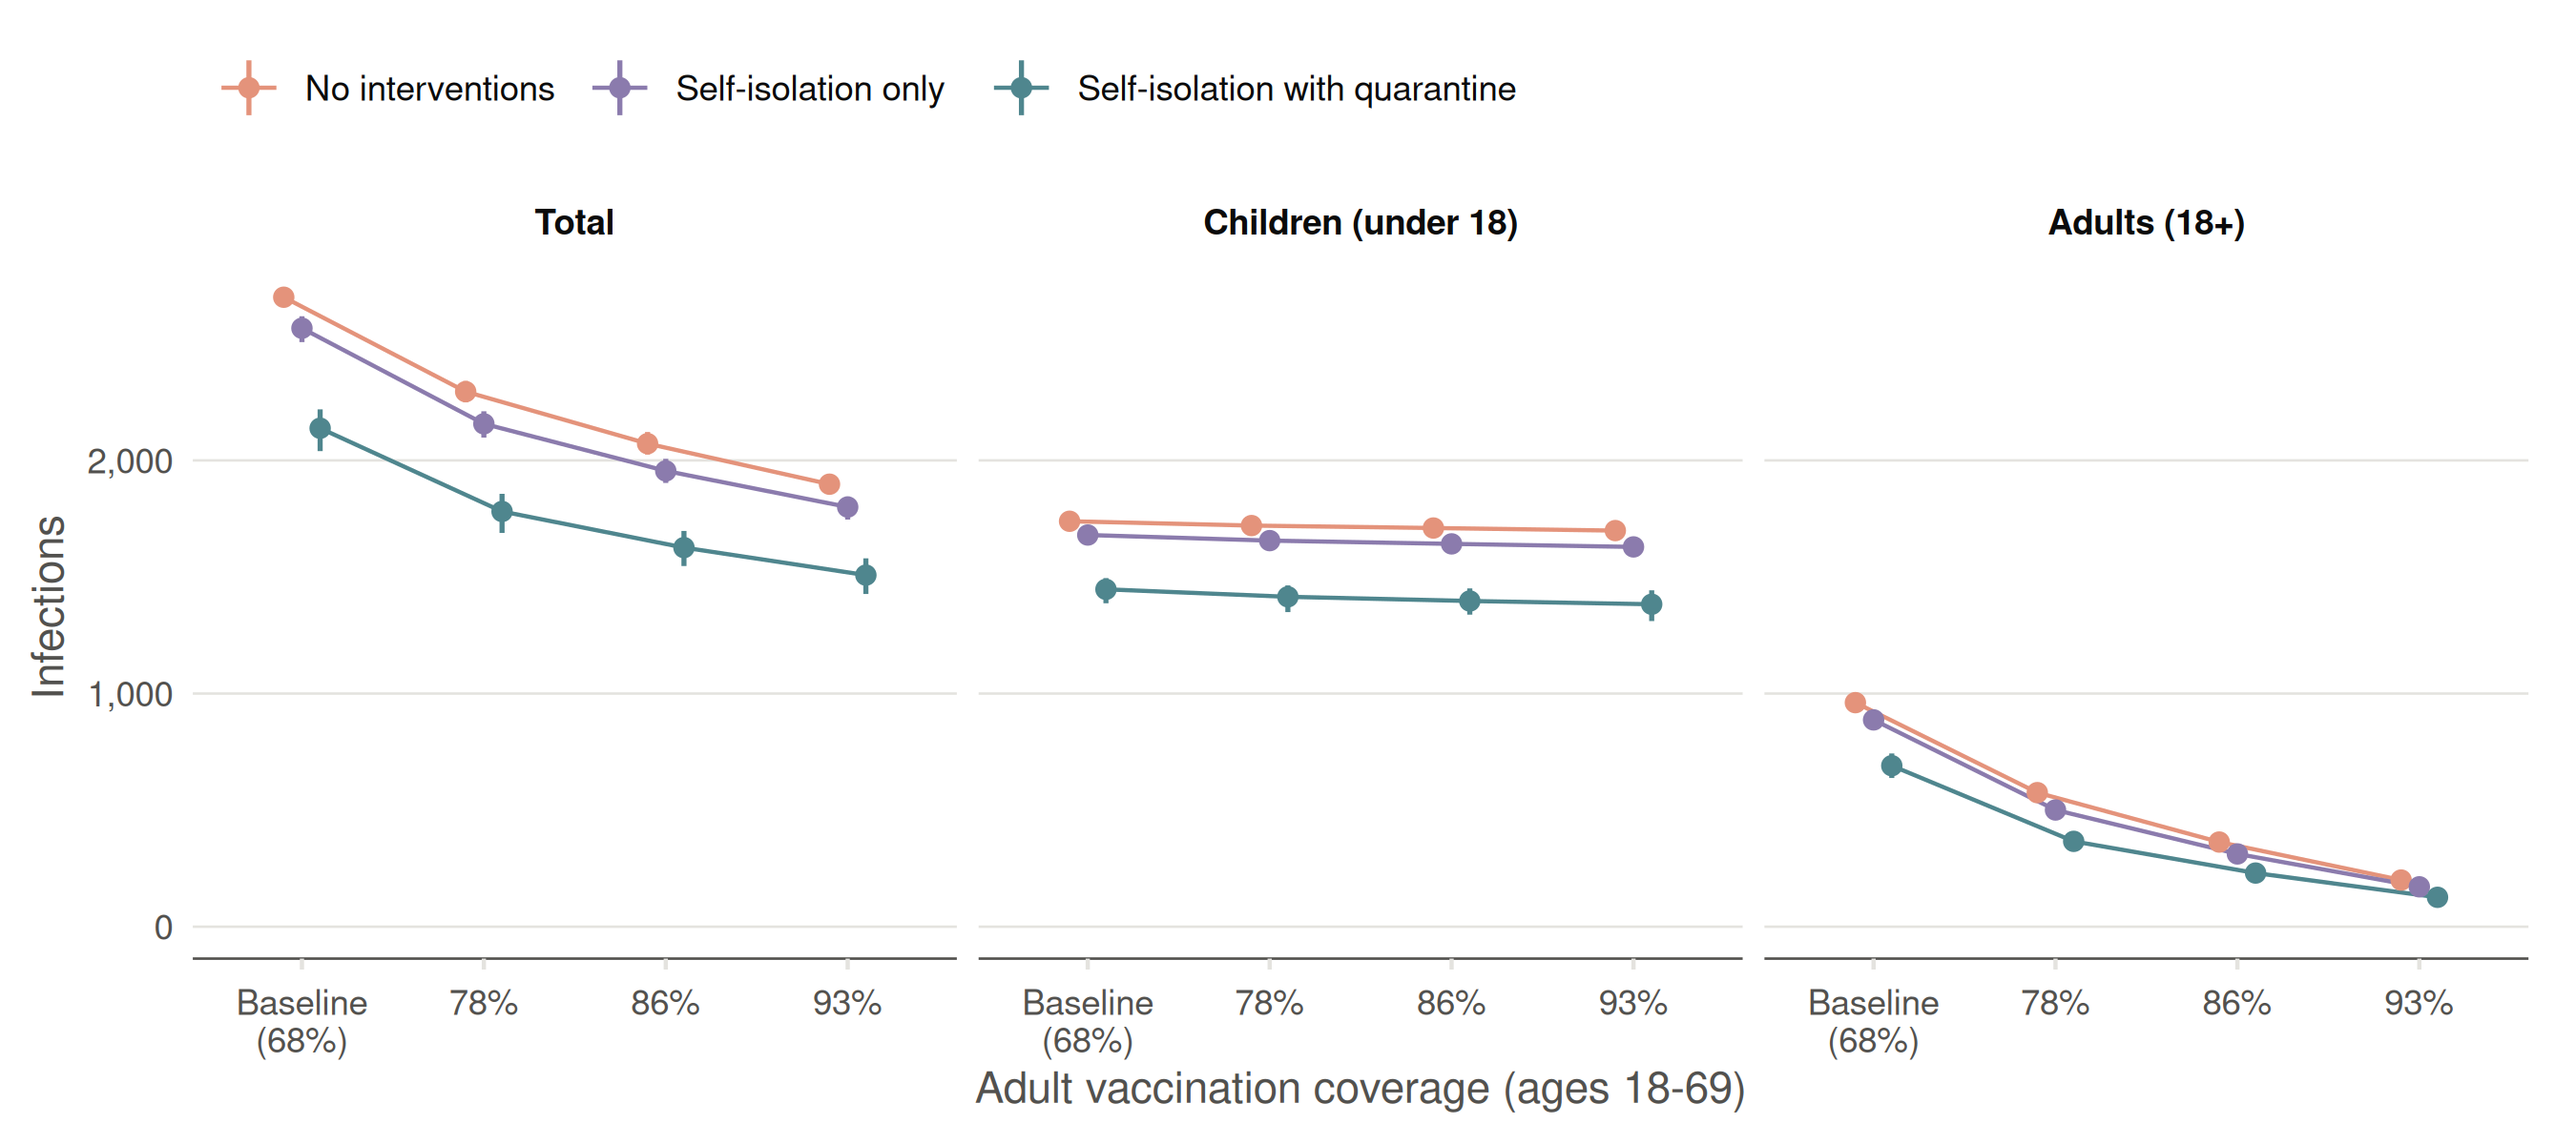
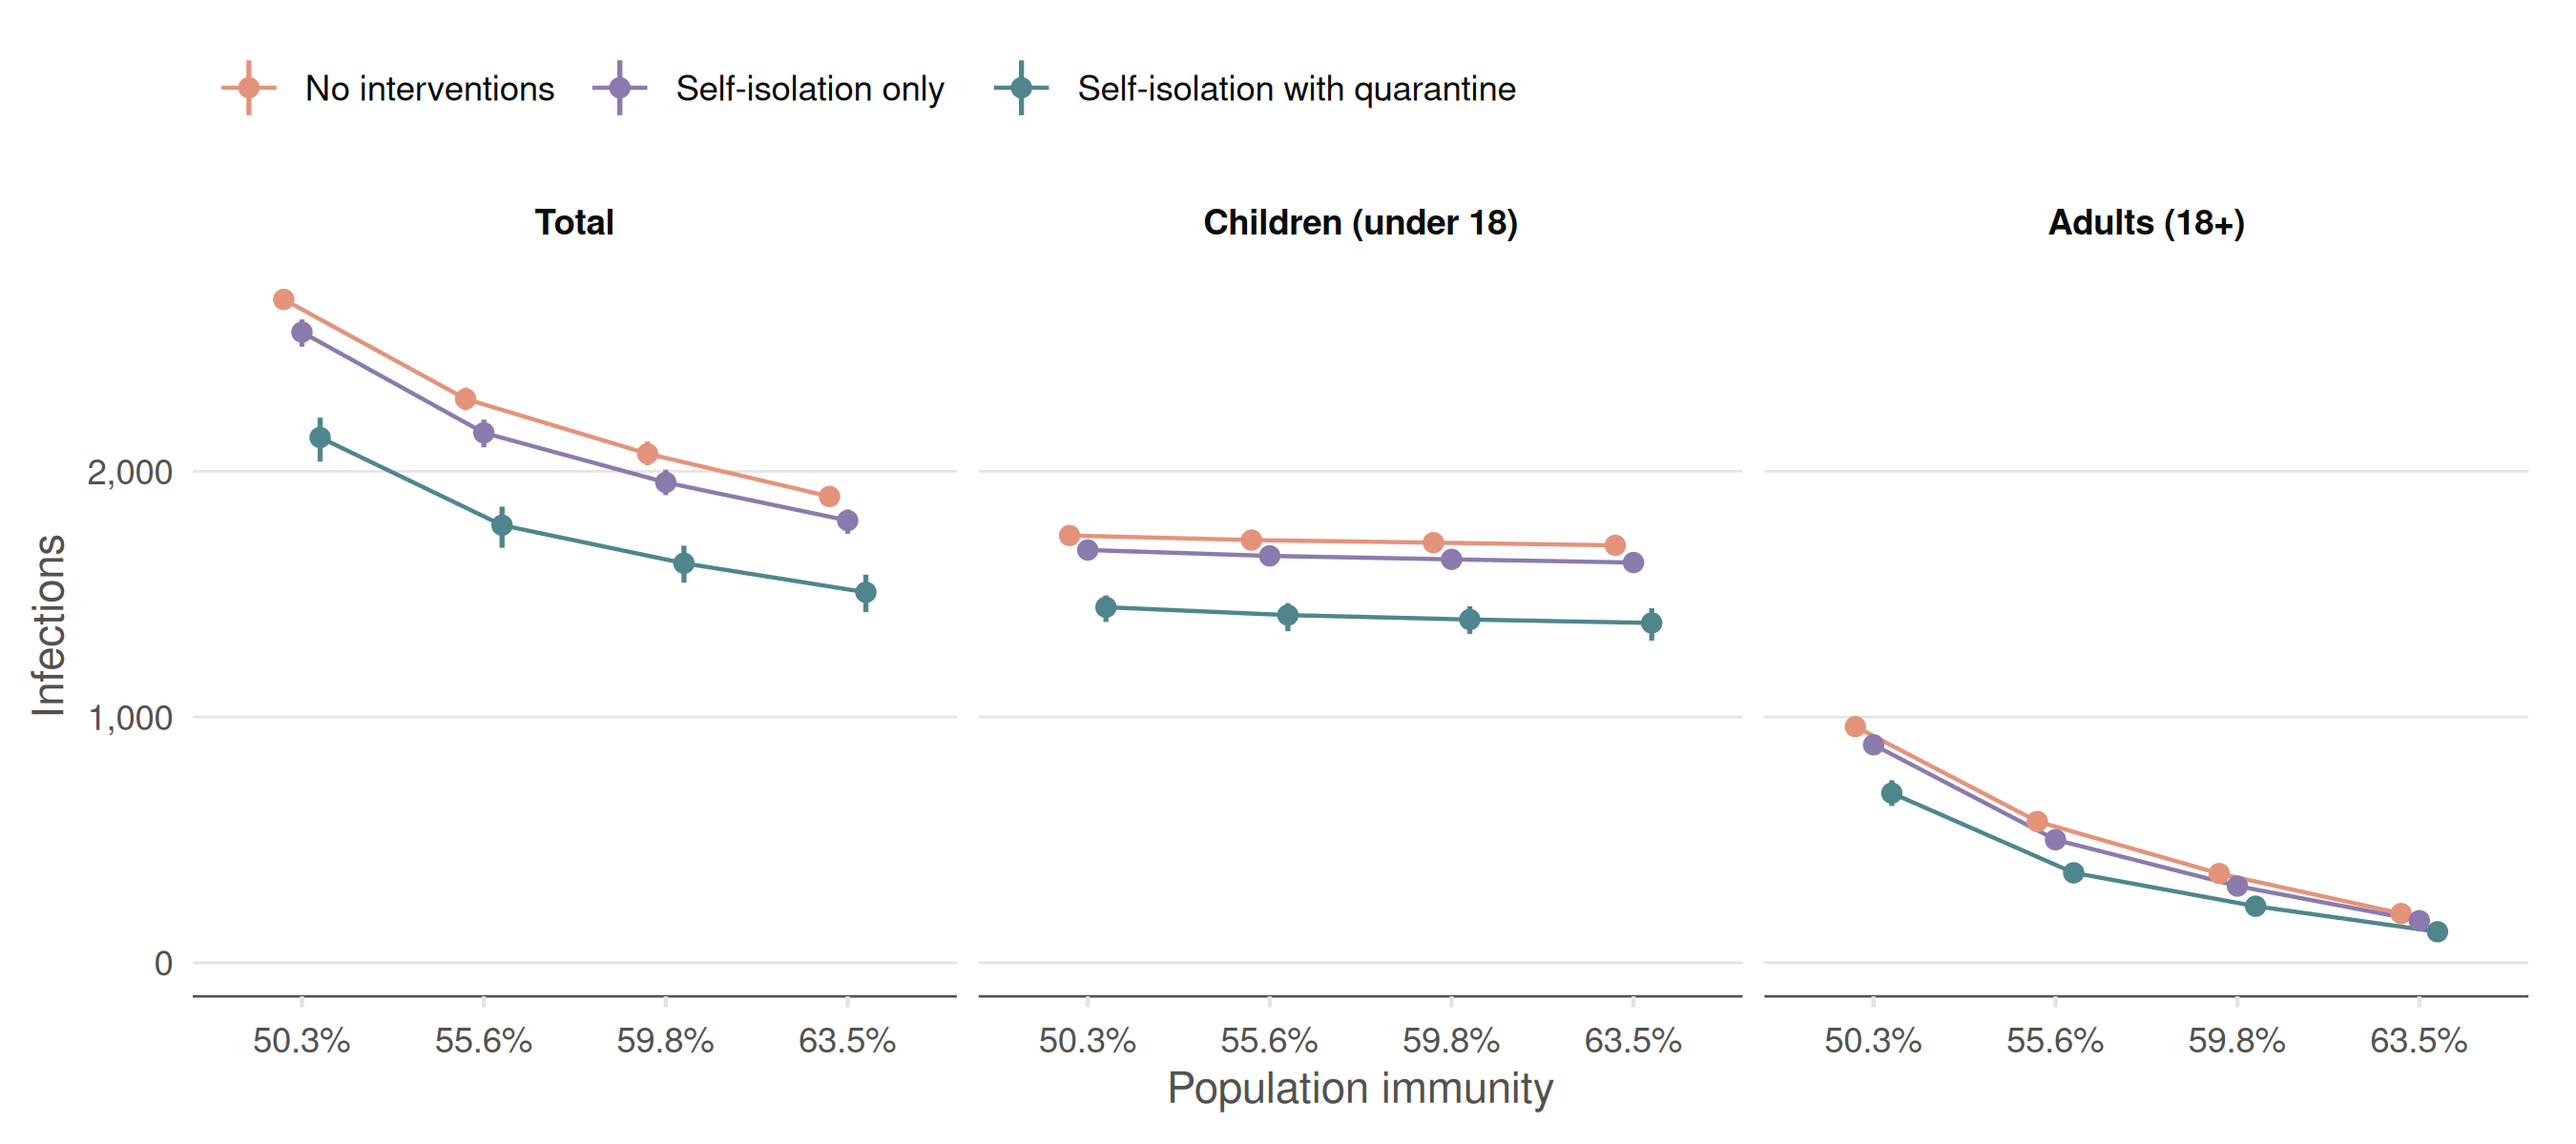
Figure SI 11: label the assumptions by population immunity
The x axis shows the immunity of the whole population under each adult
vaccination assumption (share vaccinated times the model's vaccine
efficacy, with those aged 70+ immune), in line with the manuscript.

diff --git a/population_immunity/README.md b/population_immunity/README.md
@@ -6,10 +6,14 @@ The three focal scenarios of Figure 4 at R0 = 9
 coverage of adults aged 18 to 69: the current one (`baseline`) and the
 alternate adult immunization assumptions of the [`multigroup.vaccine`
 vignette](https://epiforesite.github.io/multigroup-vaccine/articles/experiments/utaz_age_school.html),
-with 78%, 86%, and 93% coverage. Each scenario has 1,000 runs; runs with
-fewer than 10 cases are excluded as early extinctions. As in Figure 4,
-self-isolation with quarantine uses the run with quarantine and the
-other two scenarios the run without. Children are those under 18.
+with 78%, 86%, and 93% coverage. In parentheses is the resulting
+immunity of the whole population (50.3%, 55.6%, 59.8%, 63.5%): the share
+vaccinated times the vaccine efficacy (93% under age 5, 97% otherwise),
+with everyone aged 70 or older immune. Each scenario has 1,000 runs;
+runs with fewer than 10 cases are excluded as early extinctions. As in
+Figure 4, self-isolation with quarantine uses the run with quarantine
+and the other two scenarios the run without. Children are those under
+18.
 
 <div id="tbl-population-immunity">
 
@@ -18,20 +22,20 @@ across the retained runs; the ratio is of the medians.
 
 <div class="cell-output-display">
 
-| Adult vaccination | Scenario | Retained runs | Total infections | Children | Adults | Child:adult ratio |
+| Adult vaccination (population immunity) | Scenario | Retained runs | Total infections | Children | Adults | Child:adult ratio |
 |:---|:---|---:|---:|---:|---:|---:|
-| Baseline (68%) | No interventions | 777 | 2,700 (2,686-2,715) | 1,739 (1,731-1,747) | 961 (951-972) | 1.8 |
-| Baseline (68%) | Self-isolation only | 703 | 2,567 (2,547-2,585) | 1,680 (1,670-1,691) | 887 (872-899) | 1.9 |
-| Baseline (68%) | Self-isolation with quarantine | 594 | 2,138 (2,106-2,167) | 1,447 (1,426-1,466) | 690 (673-707) | 2.1 |
-| 78% | No interventions | 726 | 2,295 (2,280-2,311) | 1,720 (1,713-1,730) | 575 (564-586) | 3.0 |
-| 78% | Self-isolation only | 646 | 2,157 (2,138-2,177) | 1,656 (1,644-1,668) | 500 (487-513) | 3.3 |
-| 78% | Self-isolation with quarantine | 532 | 1,781 (1,750-1,806) | 1,415 (1,395-1,434) | 366 (353-379) | 3.9 |
-| 86% | No interventions | 691 | 2,072 (2,059-2,087) | 1,710 (1,700-1,720) | 363 (352-373) | 4.7 |
-| 86% | Self-isolation only | 617 | 1,955 (1,937-1,972) | 1,642 (1,630-1,654) | 312 (302-323) | 5.3 |
-| 86% | Self-isolation with quarantine | 499 | 1,626 (1,597-1,652) | 1,397 (1,374-1,414) | 230 (219-242) | 6.1 |
-| 93% | No interventions | 669 | 1,898 (1,885-1,913) | 1,699 (1,689-1,709) | 200 (192-208) | 8.5 |
-| 93% | Self-isolation only | 603 | 1,800 (1,783-1,816) | 1,629 (1,616-1,642) | 171 (163-178) | 9.5 |
-| 93% | Self-isolation with quarantine | 481 | 1,508 (1,483-1,534) | 1,383 (1,363-1,401) | 126 (119-135) | 11.0 |
+| Baseline (50.3%) | No interventions | 777 | 2,700 (2,686-2,715) | 1,739 (1,731-1,747) | 961 (951-972) | 1.8 |
+| Baseline (50.3%) | Self-isolation only | 703 | 2,567 (2,547-2,585) | 1,680 (1,670-1,691) | 887 (872-899) | 1.9 |
+| Baseline (50.3%) | Self-isolation with quarantine | 594 | 2,138 (2,106-2,167) | 1,447 (1,426-1,466) | 690 (673-707) | 2.1 |
+| 78% (55.6%) | No interventions | 726 | 2,295 (2,280-2,311) | 1,720 (1,713-1,730) | 575 (564-586) | 3.0 |
+| 78% (55.6%) | Self-isolation only | 646 | 2,157 (2,138-2,177) | 1,656 (1,644-1,668) | 500 (487-513) | 3.3 |
+| 78% (55.6%) | Self-isolation with quarantine | 532 | 1,781 (1,750-1,806) | 1,415 (1,395-1,434) | 366 (353-379) | 3.9 |
+| 86% (59.8%) | No interventions | 691 | 2,072 (2,059-2,087) | 1,710 (1,700-1,720) | 363 (352-373) | 4.7 |
+| 86% (59.8%) | Self-isolation only | 617 | 1,955 (1,937-1,972) | 1,642 (1,630-1,654) | 312 (302-323) | 5.3 |
+| 86% (59.8%) | Self-isolation with quarantine | 499 | 1,626 (1,597-1,652) | 1,397 (1,374-1,414) | 230 (219-242) | 6.1 |
+| 93% (63.5%) | No interventions | 669 | 1,898 (1,885-1,913) | 1,699 (1,689-1,709) | 200 (192-208) | 8.5 |
+| 93% (63.5%) | Self-isolation only | 603 | 1,800 (1,783-1,816) | 1,629 (1,616-1,642) | 171 (163-178) | 9.5 |
+| 93% (63.5%) | Self-isolation with quarantine | 481 | 1,508 (1,483-1,534) | 1,383 (1,363-1,401) | 126 (119-135) | 11.0 |
 
 </div>
 
@@ -43,12 +47,15 @@ across the retained runs; the ratio is of the medians.
 
 Figure 1: Figure SI 11. Projected final outbreak size at R0 = 9 under
 alternative adult vaccination-coverage assumptions. Simulations used the
-baseline coverage (68%) and 78%, 86%, and 93% coverage among adults aged
-18-69 years, under no interventions, self-isolation only, and
-self-isolation with quarantine. Panels show total infections, infections
-among children younger than 18 years, and infections among adults aged
-18 years or older. Points denote the median at day 365 across
-simulations with at least 10 cases; vertical bars denote the 95%
-interval (2.5th to 97.5th percentiles) across those simulations.
+baseline coverage and 78%, 86%, and 93% coverage among adults aged 18-69
+years, which give a population immunity of 50.3%, 55.6%, 59.8%, and
+63.5%, respectively (the share vaccinated times the vaccine efficacy of
+93% under age 5 and 97% otherwise, with everyone aged 70 or older
+immune), under no interventions, self-isolation only, and self-isolation
+with quarantine. Panels show total infections, infections among children
+younger than 18 years, and infections among adults aged 18 years or
+older. Points denote the median at day 365 across simulations with at
+least 10 cases; vertical bars denote the 95% interval (2.5th to 97.5th
+percentiles) across those simulations.
 
 </div>
